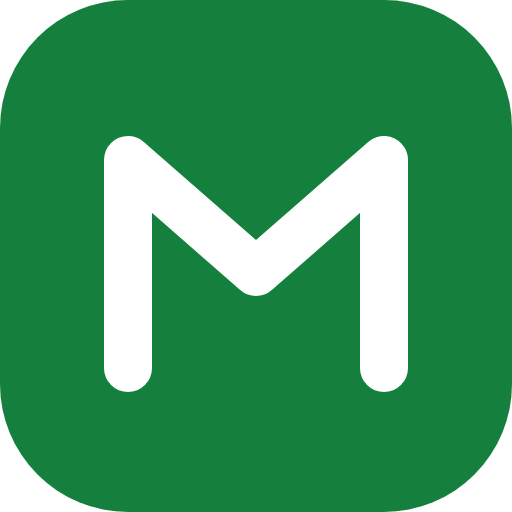
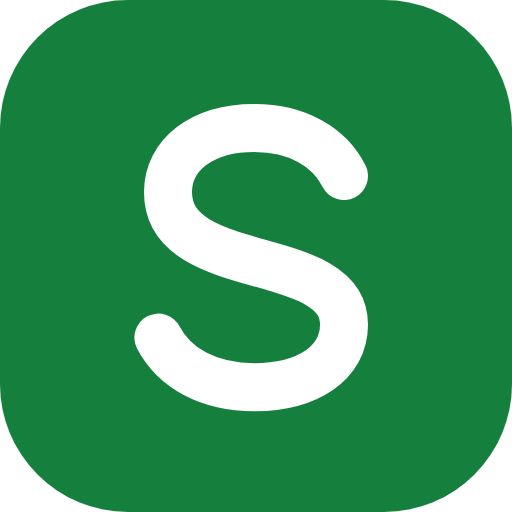
Rename the app from MUKOMBOZI to SAVIOR
Everything users see now says SAVIOR: the logo (now an "S"), page and
app titles, the installed-app name and icons, the admin site, the
backend home page, the password-reset SMS and new payment references
(SVR-...). Internal names stay "mukombozi" (Render services and web
addresses, database, saved browser keys), because changing them would
break the live site and log everyone out.

Changed region(s): [[0.1875, 0.1875, 0.8125, 0.8125]]

diff --git a/frontend/src/i18n/translations.js b/frontend/src/i18n/translations.js
@@ -116,7 +116,7 @@ export const translations = {
     },
     admin: {
       title: 'Admin dashboard',
-      subtitle: 'All shops, users and activity on MUKOMBOZI',
+      subtitle: 'All shops, users and activity on SAVIOR',
       overview: 'Overview',
       activity: 'Activity',
       users: 'Users',
@@ -189,7 +189,7 @@ export const translations = {
       changePhoto: 'Change photo',
       removePhoto: 'Remove photo',
       removeConfirm: 'Remove your profile photo?',
-      photoHint: 'Your photo is shown to your shop and to MUKOMBOZI admins. Choose a clear photo of your face.',
+      photoHint: 'Your photo is shown to your shop and to SAVIOR admins. Choose a clear photo of your face.',
       photoError: 'This photo could not be opened. Try a JPEG or PNG photo.',
       email: 'Email',
       emailHint: 'Optional',
@@ -714,7 +714,7 @@ export const translations = {
     },
     admin: {
       title: 'Dashibodi ya usimamizi',
-      subtitle: 'Maduka, watumiaji na shughuli zote za MUKOMBOZI',
+      subtitle: 'Maduka, watumiaji na shughuli zote za SAVIOR',
       overview: 'Muhtasari',
       activity: 'Shughuli',
       users: 'Watumiaji',
@@ -787,7 +787,7 @@ export const translations = {
       changePhoto: 'Badilisha picha',
       removePhoto: 'Ondoa picha',
       removeConfirm: 'Ondoa picha yako ya wasifu?',
-      photoHint: 'Picha yako inaonekana kwa duka lako na kwa ma-admin wa MUKOMBOZI. Chagua picha inayoonyesha uso wako vizuri.',
+      photoHint: 'Picha yako inaonekana kwa duka lako na kwa ma-admin wa SAVIOR. Chagua picha inayoonyesha uso wako vizuri.',
       photoError: 'Picha hii haikuweza kufunguliwa. Jaribu picha ya JPEG au PNG.',
       email: 'Barua pepe',
       emailHint: 'Si lazima',

diff --git a/frontend/index.html b/frontend/index.html
@@ -4,12 +4,12 @@
     <meta charset="UTF-8" />
     <link rel="icon" type="image/svg+xml" href="/favicon.svg" />
     <meta name="viewport" content="width=device-width, initial-scale=1.0" />
-    <meta name="description" content="MUKOMBOZI - rekodi mauzo, matumizi, stoki na faida ya biashara yako." />
+    <meta name="description" content="SAVIOR - rekodi mauzo, matumizi, stoki na faida ya biashara yako." />
     <meta name="theme-color" content="#15803d" />
     <!-- Lets phones install the app and open it without internet (see public/sw.js) -->
     <link rel="manifest" href="/manifest.webmanifest" />
     <link rel="apple-touch-icon" href="/apple-touch-icon.png" />
-    <title>MUKOMBOZI</title>
+    <title>SAVIOR</title>
   </head>
   <body>
     <div id="root"></div>

diff --git a/frontend/public/sw.js b/frontend/public/sw.js
@@ -1,4 +1,4 @@
-// MUKOMBOZI service worker: lets the installed app open and show data without internet.
+// SAVIOR service worker: lets the installed app open and show data without internet.
 //
 // - The app itself (index.html and the files in /assets/) is kept on the phone.
 // - Every successful GET from the API is kept too, and shown when the phone is offline, marked with

diff --git a/frontend/src/components/Layout.jsx b/frontend/src/components/Layout.jsx
@@ -27,7 +27,7 @@ export function Logo({ className = '' }) {
   return (
     <span className={`inline-flex items-center gap-2 font-bold tracking-tight text-ink ${className}`}>
       <img src="/favicon.svg" alt="" className="size-8" />
-      MUKOMBOZI
+      SAVIOR
     </span>
   )
 }

diff --git a/backend/config/views.py b/backend/config/views.py
@@ -13,7 +13,7 @@ def home(request):
 <head>
   <meta charset="utf-8">
   <meta name="viewport" content="width=device-width, initial-scale=1">
-  <title>MUKOMBOZI API</title>
+  <title>SAVIOR API</title>
   <style>
     body {{ font-family: system-ui, sans-serif; background: #f6f6f3; color: #0b0b0b; margin: 0;
            display: flex; min-height: 100vh; align-items: center; justify-content: center; padding: 16px; }}
@@ -27,10 +27,10 @@ def home(request):
 </head>
 <body>
   <main>
-    <h1>MUKOMBOZI API iko hai &#9989;</h1>
+    <h1>SAVIOR API iko hai &#9989;</h1>
     <p>Hii ni sehemu ya nyuma (backend) inayohifadhi taarifa. Programu yenyewe iko kwenye kiungo hapa chini.</p>
     <p>This is the backend that stores the data. The app itself is at the link below.</p>
-    <a class="primary" href="{app_url}">Fungua MUKOMBOZI / Open the app</a>
+    <a class="primary" href="{app_url}">Fungua SAVIOR / Open the app</a>
     <a href="/admin/">Admin panel</a>
     <a href="/api/">API endpoints</a>
   </main>

diff --git a/backend/config/settings.py b/backend/config/settings.py
@@ -78,7 +78,7 @@ INSTALLED_APPS = [
     'rest_framework',
     'rest_framework_simplejwt',
     'corsheaders',
-    # MUKOMBOZI apps
+    # SAVIOR apps
     'accounts',
     'inventory',
     'sales',
@@ -219,7 +219,7 @@ SONICPESA_BUYER_EMAIL = os.environ.get('SONICPESA_BUYER_EMAIL', 'payments@mukomb
 # Without keys, SMS are printed in the terminal while DEBUG is on, and refused when it is off.
 BEEM_API_KEY = os.environ.get('BEEM_API_KEY', '')
 BEEM_SECRET_KEY = os.environ.get('BEEM_SECRET_KEY', '')
-# The name the SMS comes from. 'INFO' works at first; your own name (e.g. MUKOMBOZI) needs Beem's approval.
+# The name the SMS comes from. 'INFO' works at first; your own name (e.g. SAVIOR) needs Beem's approval.
 BEEM_SENDER_ID = os.environ.get('BEEM_SENDER_ID', 'INFO')
 BEEM_SMS_URL = os.environ.get('BEEM_SMS_URL', 'https://apisms.beem.africa/v1/send')
 

diff --git a/backend/config/urls.py b/backend/config/urls.py
@@ -1,4 +1,4 @@
-"""MUKOMBOZI URL configuration. All API endpoints start with /api/."""
+"""SAVIOR URL configuration. All API endpoints start with /api/."""
 
 from django.contrib import admin
 from django.urls import include, path
@@ -23,8 +23,8 @@ router.register('notifications', NotificationViewSet, basename='notification')
 router.register('recipes', RecipeViewSet, basename='recipe')
 router.register('production', ProductionRunViewSet, basename='production-run')
 
-admin.site.site_header = 'MUKOMBOZI Admin'
-admin.site.site_title = 'MUKOMBOZI'
+admin.site.site_header = 'SAVIOR Admin'
+admin.site.site_title = 'SAVIOR'
 
 urlpatterns = [
     path('', home, name='home'),

diff --git a/backend/config/tests.py b/backend/config/tests.py
@@ -7,7 +7,7 @@ class PublicPagesTests(TestCase):
     def test_home_page(self):
         response = self.client.get('/')
         self.assertEqual(response.status_code, 200)
-        self.assertContains(response, 'MUKOMBOZI API')
+        self.assertContains(response, 'SAVIOR API')
         self.assertContains(response, 'href="http://localhost:5173"')
 
     def test_api_index_is_public_but_data_is_not(self):

diff --git a/backend/subscriptions/models.py b/backend/subscriptions/models.py
@@ -109,7 +109,7 @@ class SubscriptionPayment(models.Model):
 
     def save(self, *args, **kwargs):
         if not self.reference:
-            self.reference = 'MKB-' + uuid.uuid4().hex[:10].upper()
+            self.reference = 'SVR-' + uuid.uuid4().hex[:10].upper()
         super().save(*args, **kwargs)
 
     @transaction.atomic

diff --git a/backend/notifications/sms.py b/backend/notifications/sms.py
@@ -54,7 +54,7 @@ def send_sms(phone, message):
         headers={
             'Content-Type': 'application/json',
             'Accept': 'application/json',
-            'User-Agent': 'MUKOMBOZI/1.0',
+            'User-Agent': 'SAVIOR/1.0',
             'Authorization': f'Basic {credentials}',
         },
         method='POST',

diff --git a/backend/subscriptions/sonicpesa.py b/backend/subscriptions/sonicpesa.py
@@ -44,7 +44,7 @@ def _post(path, payload):
         headers={
             'Content-Type': 'application/json',
             'Accept': 'application/json',
-            'User-Agent': 'MUKOMBOZI/1.0',
+            'User-Agent': 'SAVIOR/1.0',
             'X-API-KEY': settings.SONICPESA_API_KEY,
         },
         method='POST',

diff --git a/backend/accounts/password_reset.py b/backend/accounts/password_reset.py
@@ -17,7 +17,7 @@ RESEND_AFTER = timedelta(seconds=60)
 MAX_CODES_PER_HOUR = 5
 
 MESSAGE = (
-    'MUKOMBOZI: {code} ni namba yako ya kubadilisha nenosiri (password reset code). '
+    'SAVIOR: {code} ni namba yako ya kubadilisha nenosiri (password reset code). '
     'Inaisha baada ya dakika 10. Usimpe mtu yeyote.'
 )
 
